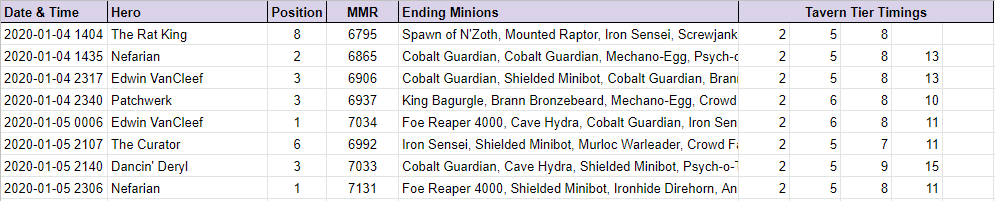
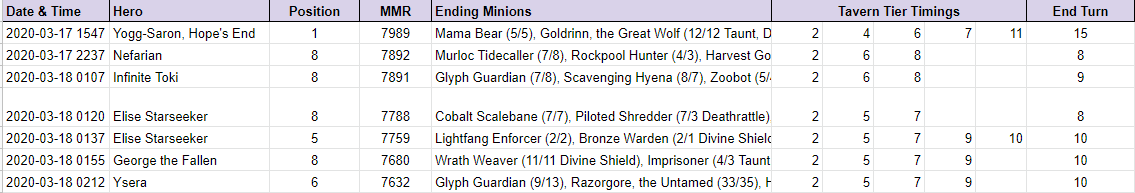
Version 0.3.0 - Added overlay for average & total board stats - Added logging for board states on each turn

diff --git a/Battlegrounds Match Data/BgMatchOverlay.xaml b/Battlegrounds Match Data/BgMatchOverlay.xaml
@@ -4,9 +4,9 @@
              xmlns:mc="http://schemas.openxmlformats.org/markup-compatibility/2006" 
              xmlns:d="http://schemas.microsoft.com/expression/blend/2008" 
              xmlns:local="clr-namespace:BattlegroundsMatchData"
-             mc:Ignorable="d" Width="170" Height="60" Background="#FF343434" BorderThickness="2" BorderBrush="Black" >
+             mc:Ignorable="d" Width="168" Height="54.667" Background="#FF343434" BorderThickness="2" BorderBrush="Black" >
     <StackPanel x:Name="panel" HorizontalAlignment="Left" Width="196" >
-        <Label x:Name="TurnLabel" Content="Turn ##" HorizontalAlignment="Left" Margin="0,0,0,-22" VerticalAlignment="Top" FontSize="20" FontFamily="Source Sans Pro Black" Foreground="White" />
-        <Label x:Name="StatsLabel" Content="Avg Stats: 0.0 / 0.0" VerticalAlignment="Top" FontSize="18" FontFamily="Source Sans Pro" Foreground="White" HorizontalAlignment="Right" Width="196" Margin="0,10,0,0" />
+        <Label x:Name="AvgStatsLabel" Content="Avg Stats: 0.0 / 0.0" HorizontalAlignment="Left" Margin="0,0,0,-22" VerticalAlignment="Top" FontSize="18" FontFamily="Source Sans Pro" Foreground="White" />
+        <Label x:Name="TotalStatsLabel" Content="Total Stats: 0 / 0" VerticalAlignment="Top" FontSize="18" FontFamily="Source Sans Pro" Foreground="White" HorizontalAlignment="Left" Margin="0,10,0,0" />
     </StackPanel>
 </UserControl>

diff --git a/Battlegrounds Match Data/BgMatchData.cs b/Battlegrounds Match Data/BgMatchData.cs
@@ -4,6 +4,7 @@ using System.IO;
 
 using HearthDb.Enums;
 using Hearthstone_Deck_Tracker.Enums;
+using Hearthstone_Deck_Tracker.Hearthstone;
 using Hearthstone_Deck_Tracker.API;
 using Hearthstone_Deck_Tracker.Hearthstone.Entities;
 using Hearthstone_Deck_Tracker.Utility.Logging;
@@ -99,6 +100,7 @@ namespace BattlegroundsMatchData
     public class BgMatchData
     {
         private static bool _checkRating = false;
+        private static int _checkStats = 0;
         private static int _rating;
         private static BgMatchDataRecord _record;
         private static Config _config;
@@ -155,14 +157,17 @@ namespace BattlegroundsMatchData
             return entity.GetTag(GameTag.HEALTH);
         }
 
+        internal static void PlayerPlay(Card card)
+        {
+            UpdateStats();
+            _checkStats = 3; // check for 300ms after, since battlecries may have triggered
+        }
 
         internal static void TurnStart(ActivePlayer player)
         {
             if (!InBgMode("Turn Start")) return;
 
             int turn = Core.Game.GetTurnNumber();
-
-            Overlay.UpdateTurn(turn);
 
             int level = Core.Game.PlayerEntity.GetTag(GameTag.PLAYER_TECH_LEVEL);
 
@@ -180,21 +185,11 @@ namespace BattlegroundsMatchData
             Log.Info("Current minions in play: " + Snapshot.Minions);
             _record.Snapshot = Snapshot;
 
-            float atk = Core.Game.Entities.Values
-                    .Where(x => x.IsMinion && x.IsInPlay && x.IsControlledBy(playerId))
-                    .Select(x => MinionToAtk(x))
-                    .ToArray().Average();
-
-            float health = Core.Game.Entities.Values
-                    .Where(x => x.IsMinion && x.IsInPlay && x.IsControlledBy(playerId))
-                    .Select(x => MinionToHealth(x))
-                    .ToArray().Average();
-
-            Overlay.UpdateStats(atk, health);
+            UpdateStats();
 
             bool isOpponentTurn = player == ActivePlayer.Opponent;
 
-            if (turn >= 7 && isOpponentTurn)
+            if (turn >= _config.TurnToStartTrackingAllBoards && isOpponentTurn)
             {
                 _record.Histories.Add(Snapshot);
 
@@ -206,6 +201,24 @@ namespace BattlegroundsMatchData
 
             }
 
+        }
+
+        private static void UpdateStats()
+        {
+            int playerId = Core.Game.Player.Id;
+
+            float[] atk = Core.Game.Entities.Values
+                    .Where(x => x.IsMinion && x.IsInPlay && x.IsControlledBy(playerId))
+                    .Select(x => MinionToAtk(x))
+                    .ToArray();
+
+            float[] health = Core.Game.Entities.Values
+                    .Where(x => x.IsMinion && x.IsInPlay && x.IsControlledBy(playerId))
+                    .Select(x => MinionToHealth(x))
+                    .ToArray();
+
+            Overlay.UpdateTotalStats((int)atk.Sum(), (int)health.Sum());
+            Overlay.UpdateAvgStats(atk.Average(), health.Average());
         }
 
         private static BgMatchDataSnapshot CreatePlayerSnapshot(int playerId, int turn)
@@ -235,7 +248,8 @@ namespace BattlegroundsMatchData
             if (!InBgMode("Game Start")) return;
             Log.Info("Starting game");
             _record = new BgMatchDataRecord();
-            Overlay.UpdateTurn(1);
+            Overlay.UpdateTotalStats(0, 0);
+            Overlay.UpdateAvgStats(0, 0);
             Overlay.Show();
         }
 
@@ -270,42 +284,50 @@ namespace BattlegroundsMatchData
 
         internal static void Update()
         {
-            if (_checkRating)
+
+            if (_checkStats >0)
             {
+                _checkStats--;
+                UpdateStats();
+            }
+
+            // rating is only updated after we have passed the menu
+            if (_checkRating)
+            {                
                 int latestRating = Core.Game.BattlegroundsRatingInfo.Rating;
 
-                if (_rating != latestRating)
+                Log.Info($"Checking rating. Current time is: {DateTime.Now.ToString()}, {DateTime.Now.Millisecond.ToString()}ms ");
+
+                if (!InBgMode("Update")) return;
+
+                _rating = latestRating;
+                _checkRating = false;
+                _record.Rating = _rating;
+                Log.Info($"Rating Updated: {_rating}");
+
+                if (!File.Exists(_config.CsvLocation))
                 {
-                    if (!InBgMode("Update")) return;
-
-                    _rating = latestRating;
-                    _checkRating = false;
-                    _record.Rating = _rating;
-                    Log.Info($"Rating Updated: {_rating}");
-
-                    if (!File.Exists(_config.CsvLocation))
+                    using (StreamWriter sw = File.CreateText(_config.CsvLocation))
                     {
-                        using (StreamWriter sw = File.CreateText(_config.CsvLocation))
-                        {
-                            sw.WriteLine(_record.Headers());
-                        }
-                    }
-
-                    using (StreamWriter sw = File.AppendText(_config.CsvLocation))
-                    {
-                        sw.WriteLine(_record.ToString());
-                    }
-
-                    if (_config.UploadEnabled)
-                    {
-
-                        String range = _config.SheetName + "!A1:K";
-                        BgMatchSpreadsheetConnector.UpdateSingleRow(_record.ToList(), range);
-
-                        range = "Boards!A1:E";
-                        BgMatchSpreadsheetConnector.UpdateData(_record.HistoryToList(), range);
+                        sw.WriteLine(_record.Headers());
                     }
                 }
+
+                using (StreamWriter sw = File.AppendText(_config.CsvLocation))
+                {
+                    sw.WriteLine(_record.ToString());
+                }
+
+                if (_config.UploadEnabled)
+                {
+
+                    String range = _config.SheetForMyEndingBoard + "!A1:K";
+                    BgMatchSpreadsheetConnector.UpdateSingleRow(_record.ToList(), range);
+
+                    range = _config.SheetForAllBoards + "!A1:E";
+                    BgMatchSpreadsheetConnector.UpdateData(_record.HistoryToList(), range);
+                }
+
             }
         }
     }

diff --git a/Battlegrounds Match Data/BgMatchDataPlugin.cs b/Battlegrounds Match Data/BgMatchDataPlugin.cs
@@ -5,6 +5,8 @@ using Hearthstone_Deck_Tracker.Plugins;
 using Hearthstone_Deck_Tracker.API;
 using Microsoft.Win32;
 using Newtonsoft.Json;
+using System.Windows;
+using System.Windows.Media;
 
 namespace BattlegroundsMatchData
 {
@@ -14,7 +16,9 @@ namespace BattlegroundsMatchData
         public string CsvLocation = Hearthstone_Deck_Tracker.Config.AppDataPath + @"\BattlegroundsMatchData.csv";
         public bool UploadEnabled = true;
         public bool TestUpload = false;
-        public string SheetName = "Sheet1";
+        public string SheetForMyEndingBoard = "Sheet1";
+        public string SheetForAllBoards = "Boards";
+        public int TurnToStartTrackingAllBoards = 7;
         public string SpreadsheetId;
         public string CredentialLocation;
 
@@ -29,6 +33,7 @@ namespace BattlegroundsMatchData
     {
         private Config config;
         private BgMatchOverlay _overlay;
+        private double _overlayHeight;
 
         public void OnLoad()
         {
@@ -37,16 +42,20 @@ namespace BattlegroundsMatchData
             GameEvents.OnTurnStart.Add(BgMatchData.TurnStart);
             GameEvents.OnGameEnd.Add(BgMatchData.GameEnd);
             GameEvents.OnInMenu.Add(BgMatchData.InMenu);
+            GameEvents.OnPlayerPlay.Add(BgMatchData.PlayerPlay);
 
-            try {
+            try
+            {
                 // load config from file, if available
-                config = JsonConvert.DeserializeObject<Config>(File.ReadAllText(Config._configLocation));                
-            } catch {
+                config = JsonConvert.DeserializeObject<Config>(File.ReadAllText(Config._configLocation));
+            }
+            catch
+            {
                 // create config file
                 config = new Config();
                 config.save();
             }
-      
+
             BgMatchData.OnLoad(config);
 
             // connect to Google            
@@ -56,8 +65,12 @@ namespace BattlegroundsMatchData
             Core.OverlayCanvas.Children.Add(_overlay);
             _overlay.UpdatePosition();
             BgMatchData.Overlay = _overlay;
+
+            _overlayHeight = Core.OverlayWindow.Height;
+
+
         }
-    
+
         public void OnUnload()
         {
             // Triggered when the user unticks the plugin, however, HDT does not completely unload the plugin.
@@ -75,6 +88,11 @@ namespace BattlegroundsMatchData
         public void OnUpdate()
         {
             // called every ~100ms
+            if (_overlayHeight != Core.OverlayWindow.Height)
+            {
+                _overlayHeight = Core.OverlayWindow.Height;
+                _overlay.UpdatePosition();
+            }
             BgMatchData.Update();
         }
 
@@ -92,16 +110,17 @@ namespace BattlegroundsMatchData
 
         private MenuItem CreateMenu()
         {
-            MenuItem m = new MenuItem {Header = "Battlegrounds Match Data"};
+            MenuItem m = new MenuItem { Header = "Battlegrounds Match Data" };
 
-            MenuItem setDirectory = new MenuItem {Header = "Set CSV Location"};
+            MenuItem setDirectory = new MenuItem { Header = "Set CSV Location" };
             setDirectory.Click += (sender, args) =>
             {
                 ShowForm();
             };
             m.Items.Add(setDirectory);
 
-            MenuItem enableUpload = new MenuItem {
+            MenuItem enableUpload = new MenuItem
+            {
                 Header = "Enable Google Spreadsheet upload",
                 IsChecked = config.UploadEnabled
             };
@@ -109,7 +128,7 @@ namespace BattlegroundsMatchData
             {
                 config.UploadEnabled = !config.UploadEnabled;
                 enableUpload.IsChecked = config.UploadEnabled;
-                
+
                 if (config.UploadEnabled) BgMatchSpreadsheetConnector.ConnectToGoogle(config);
 
                 config.save();

diff --git a/Battlegrounds Match Data/BgMatchOverlay.xaml.cs b/Battlegrounds Match Data/BgMatchOverlay.xaml.cs
@@ -14,6 +14,7 @@ using System.Windows.Navigation;
 using System.Windows.Shapes;
 
 using Hearthstone_Deck_Tracker.API;
+using Hearthstone_Deck_Tracker.Utility.Logging;
 
 namespace BattlegroundsMatchData
 {
@@ -29,17 +30,20 @@ namespace BattlegroundsMatchData
         }
         public void UpdatePosition()
         {
-            Canvas.SetBottom(this, Core.OverlayWindow.Height * 10 / 100);
-            Canvas.SetRight(this, Core.OverlayWindow.Width * 10 / 100);
+            double scale = Math.Max(0.8, Math.Min(1.3, Core.OverlayWindow.Height / 1080));
+            Canvas.SetTop(this, 65 * scale);
+            Canvas.SetRight(this, 220 * scale);
+            RenderTransform = new ScaleTransform(scale, scale, Width, Height);
         }
 
-        public void UpdateTurn(int turn)
+        public void UpdateAvgStats(float atk, float health)
         {
-            TurnLabel.Content = "Turn " + turn;
+            AvgStatsLabel.Content = $"Avg Stats: {atk.ToString("0.0")} / {health.ToString("0.0")}";
         }
-        public void UpdateStats(float atk, float health)
+
+        public void UpdateTotalStats(int atk, int health)
         {
-            StatsLabel.Content = $"Avg Stats: {atk.ToString("0.0")} / {health.ToString("0.0")}";
+            TotalStatsLabel.Content = $"Total Stats: {atk} / {health}";
         }
 
         public void Hide()

diff --git a/Battlegrounds Match Data/BgMatchSpreadsheetConnector.cs b/Battlegrounds Match Data/BgMatchSpreadsheetConnector.cs
@@ -46,7 +46,7 @@ namespace BattlegroundsMatchData
 
             if (_config.TestUpload)
             {
-                String range = _config.SheetName + "!A1:K";
+                String range = _config.SheetForMyEndingBoard + "!A1:K";
                 UpdateSingleRow(new List<Object>() { "test" }, range);
             }
         }
@@ -72,8 +72,6 @@ namespace BattlegroundsMatchData
             {
                 Values = values
             };
-
-
 
             AppendRequest request = _sheetsService.Spreadsheets.Values.Append(body, _config.SpreadsheetId, range);
             request.ValueInputOption = AppendRequest.ValueInputOptionEnum.RAW;

diff --git a/README.md b/README.md
@@ -7,11 +7,15 @@ The following data will be captured for each match:
 - MMR after match
 - Ending minions
 - Turns taken to reach each tavern tier
+- # of turns taken
 
 Sample output of the CSV, when viewed in a spreadsheet (e.g. Excel):
 
-![CSVFormat](Images/csvformat.png?raw=true)  
+![CSVFormat](Images/csvformat.png?raw=true)
 
+Your minions' average & total stats (attack & health) will also be shown on an overlay, just under the turn timer:
+
+![Overlay](Images/overlay.PNG?raw=true)
 
 ## Installation
 1. Download the latest `BattlegroundsMatchData.zip` file from the [releases page](https://github.com/jawslouis/battlegrounds-stats/releases)
@@ -23,9 +27,10 @@ Sample output of the CSV, when viewed in a spreadsheet (e.g. Excel):
 2. By default, the CSV will be saved in the Hearthstone Deck Tracker folder. To change the save location, go to `Plugins -> Battlegrounds Stats -> Set CSV Location` in the Hearthstone Deck Tracker.
 
 ## Auto-upload to Google Spreadsheet
-Auto-uploading is an optional feature that is disabled by default. The [set-up instructions](../../wiki/Auto-upload-to-Google-Spreadsheet/) are in the wiki - this will take about 20 mins. 
+Auto-uploading is an optional feature that is disabled by default. If enabled, you can also track the minions for yourself & your opponent for each turn.
+The [set-up instructions](../../wiki/Auto-upload-to-Google-Spreadsheet/) are in the wiki - this will take about 20 mins.
 
-Here is an [example spreadsheet](https://docs.google.com/spreadsheets/d/1N8MS8fNeE3JBLAqDyqQOefSLUM0OIyfHSDDwipP5UCU/edit?usp=sharing)  showing statistics that can be automatically tracked when auto-uploading is enabled.
+Here is an [example spreadsheet](https://docs.google.com/spreadsheets/d/1jlK08xcHi83u85V2YMT7UhQCsLeY8iENztPi7BFnR58/edit?usp=sharing)  showing statistics that can be automatically tracked when auto-uploading is enabled.
 
 ![statistics](Images/statistics-3.PNG?raw=true)
 
@@ -34,3 +39,5 @@ Here is an [example spreadsheet](https://docs.google.com/spreadsheets/d/1N8MS8fN
 ![statistics](Images/statistics-1.PNG?raw=true)
 
 ![spreadsheet](Images/spreadsheet.PNG?raw=true)
+
+![spreadsheet](Images/allboards.PNG?raw=true)
